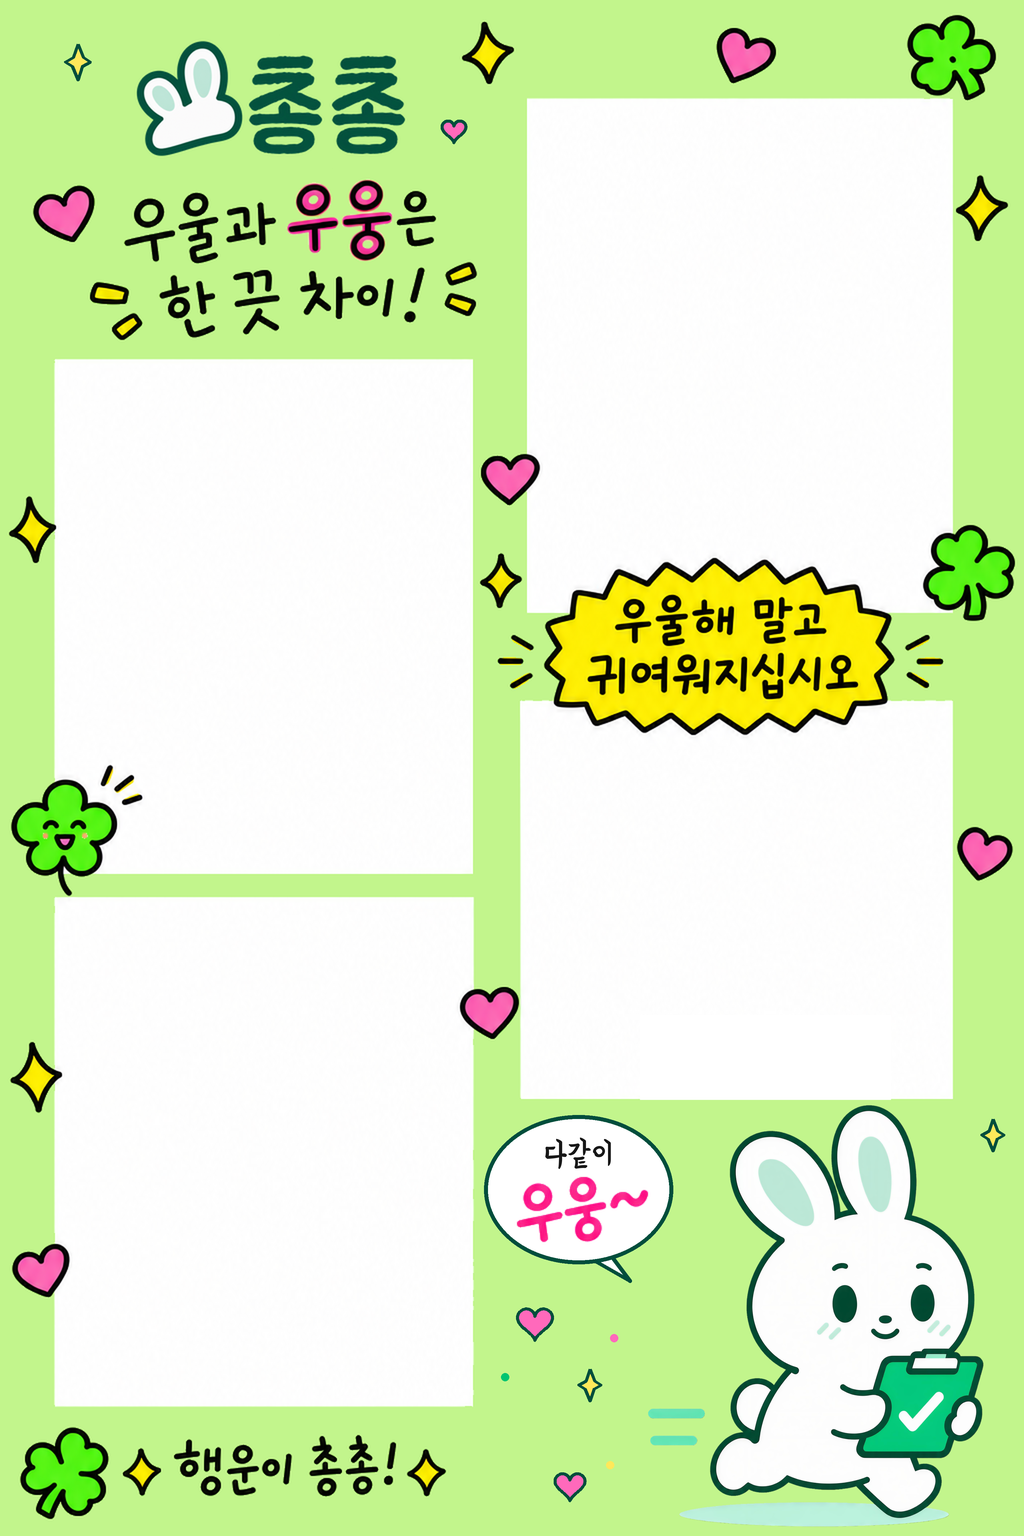
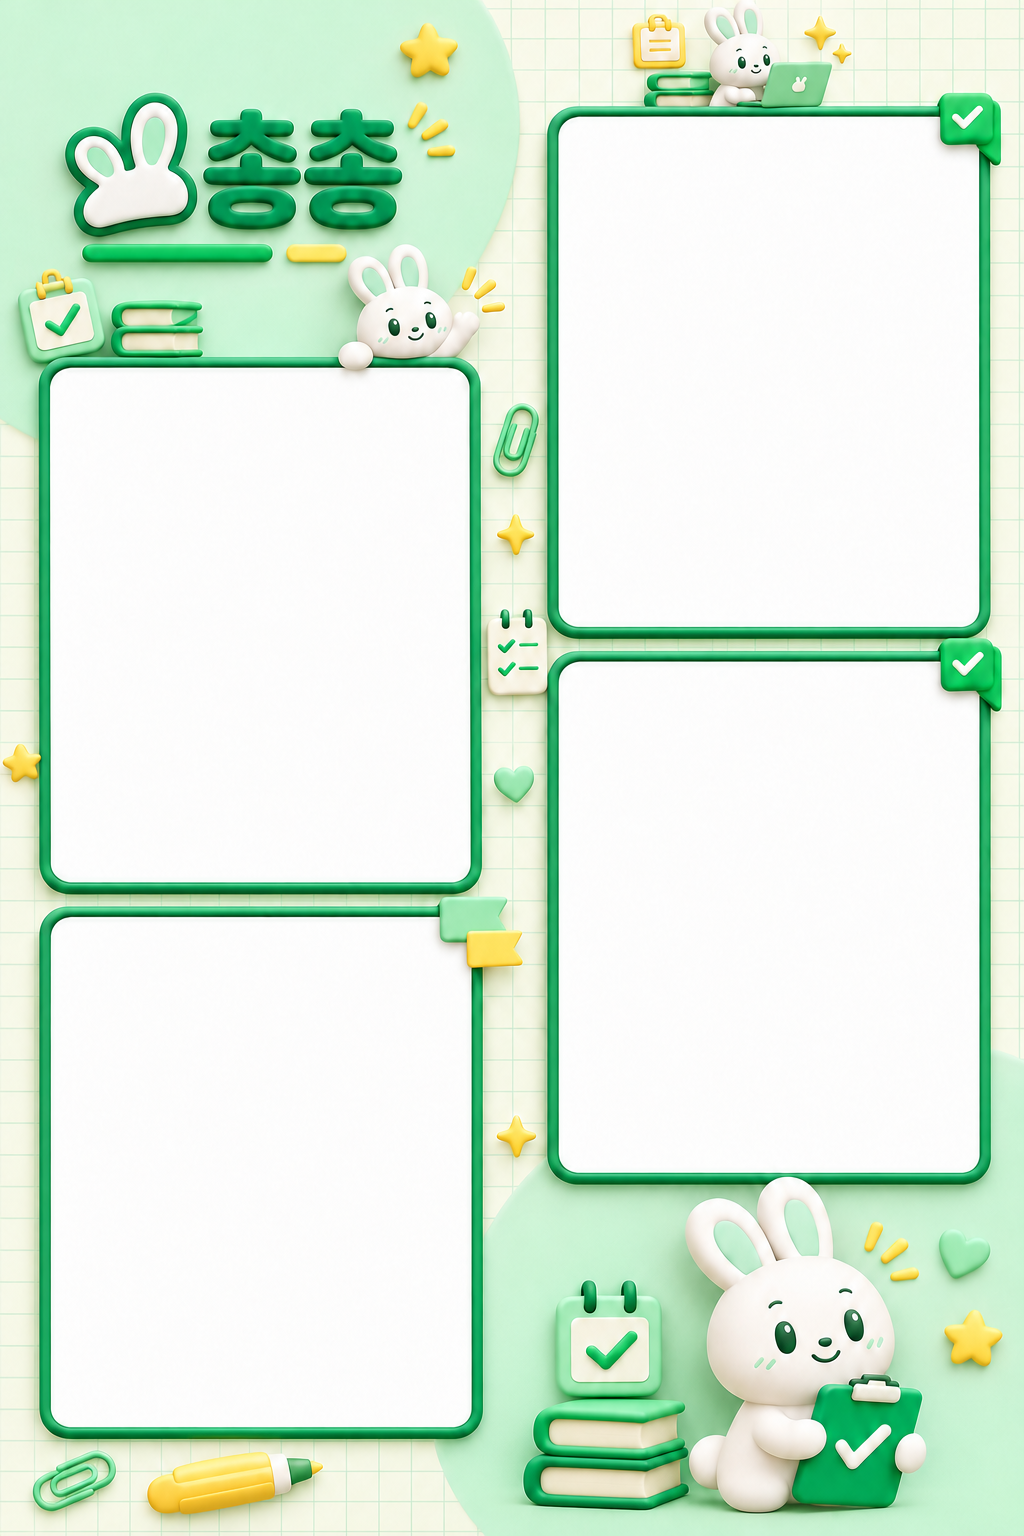
fix(frontend): 총총 프레임 이름과 디자인 수정

diff --git a/src/compose.ts b/src/compose.ts
@@ -241,7 +241,7 @@ export const frames: Frame[] = [
   },
   {
     category: "teams",
-    name: "총총",
+    name: "총총1",
     template: chongchongFrame,
     color: "#2fb968",
     ink: "#ffffff",
@@ -253,10 +253,10 @@ export const frames: Frame[] = [
     // 1024x1536 판형이고 칸 크기도 제각각이라 전용 좌표를 쓴다.
     size: { width: 1024, height: 1536 },
     slots: [
-      { x: 526, y: 97, w: 429, h: 517 },
-      { x: 519, y: 699, w: 435, h: 402 },
-      { x: 53, y: 358, w: 421, h: 517 },
-      { x: 53, y: 896, w: 421, h: 512 },
+      { x: 552, y: 110, w: 432, h: 524 },
+      { x: 552, y: 655, w: 432, h: 524 },
+      { x: 44, y: 362, w: 433, h: 526 },
+      { x: 44, y: 912, w: 433, h: 522 },
     ],
     color: "#c2f58c",
     ink: "#1a4d2e",
